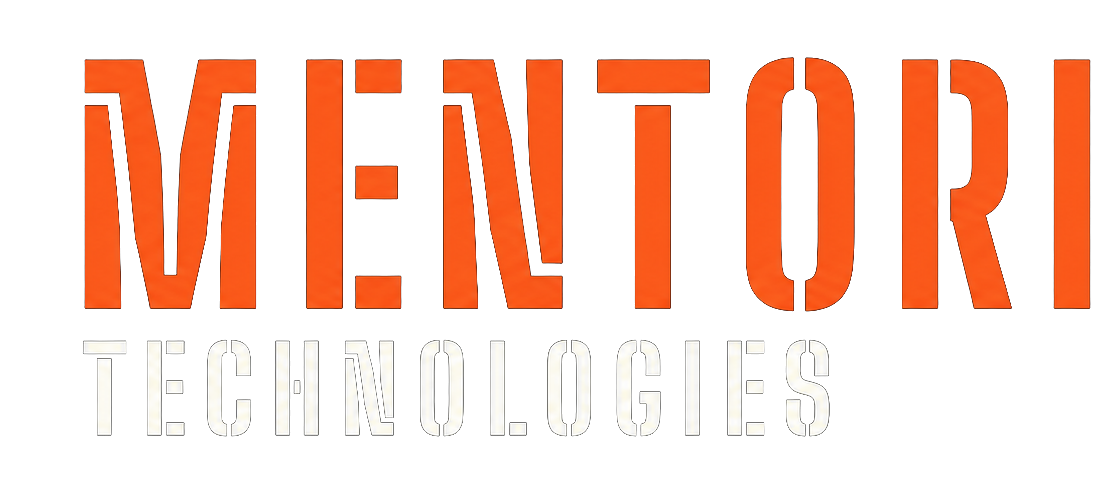
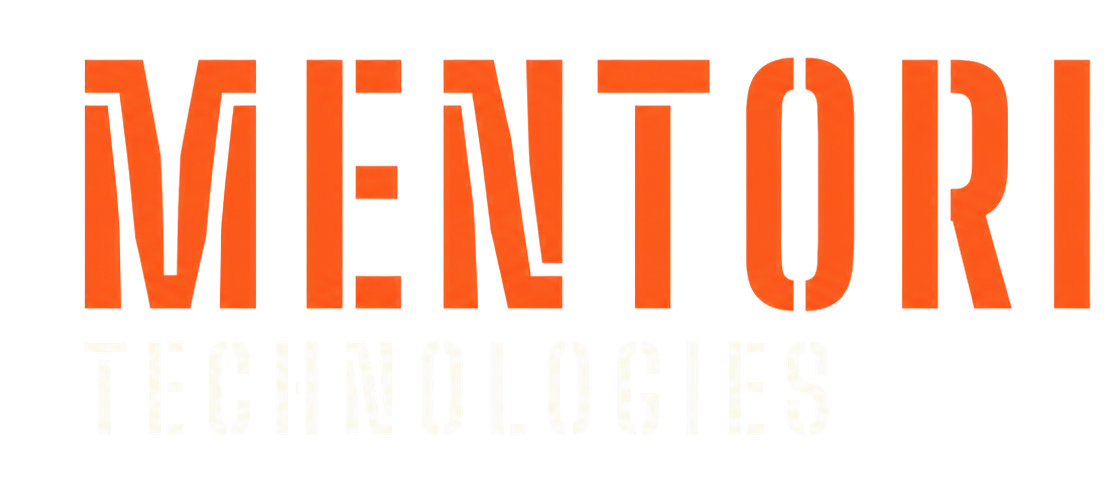
Make wordmark background transparent

diff --git a/index.html b/index.html
@@ -26,14 +26,14 @@
   <link rel="preconnect" href="https://fonts.gstatic.com" crossorigin />
   <link href="https://fonts.googleapis.com/css2?family=Fraunces:opsz,wght@9..144,300;9..144,400;9..144,500;9..144,600&family=Geist:wght@300;400;500;600;700&family=Geist+Mono:wght@400;500&display=swap" rel="stylesheet" />
 
-  <link rel="stylesheet" href="styles.css?v=50" />
+  <link rel="stylesheet" href="styles.css?v=51" />
 </head>
 <body>
   <div class="grain" aria-hidden="true"></div>
   <div class="cursor-glow" aria-hidden="true"></div>
 
   <div class="mobile-boot" id="mobileBoot" aria-hidden="true">
-    <img class="mobile-boot__wordmark" src="assets/mentori-technologies-wordmark.png" alt="" width="1120" height="500" aria-hidden="true" />
+    <img class="mobile-boot__wordmark" src="assets/mentori-technologies-wordmark-transparent.png" alt="" width="1120" height="500" aria-hidden="true" />
     <div class="mobile-boot__status"><i></i><span>запускаем систему</span></div>
     <div class="mobile-boot__bar"><i></i></div>
   </div>
@@ -42,7 +42,7 @@
   <header class="nav">
     <div class="nav__inner">
       <a href="index.html" class="nav__brand" aria-label="MENTORI TECHNOLOGIES">
-        <img class="nav__wordmark" src="assets/mentori-technologies-wordmark.png" alt="" width="1120" height="500" />
+        <img class="nav__wordmark" src="assets/mentori-technologies-wordmark-transparent.png" alt="" width="1120" height="500" />
       </a>
       <nav class="nav__links" aria-label="Главная навигация">
         <a href="services.html">Что делаем</a>
@@ -699,7 +699,7 @@
     <div class="foot__inner">
       <div class="foot__brand">
         <div>
-          <img class="foot__wordmark" src="assets/mentori-technologies-wordmark.png" alt="MENTORI TECHNOLOGIES" width="1120" height="500" loading="lazy" />
+          <img class="foot__wordmark" src="assets/mentori-technologies-wordmark-transparent.png" alt="MENTORI TECHNOLOGIES" width="1120" height="500" loading="lazy" />
           <div class="foot__tag">системы и&nbsp;автоматизация для&nbsp;бизнеса</div>
         </div>
       </div>

diff --git a/services.html b/services.html
@@ -25,7 +25,7 @@
   <link rel="preconnect" href="https://fonts.gstatic.com" crossorigin />
   <link href="https://fonts.googleapis.com/css2?family=Fraunces:opsz,wght@9..144,300;9..144,400;9..144,500;9..144,600&family=Geist:wght@300;400;500;600;700&family=Geist+Mono:wght@400;500&display=swap" rel="stylesheet" />
 
-  <link rel="stylesheet" href="styles.css?v=50" />
+  <link rel="stylesheet" href="styles.css?v=51" />
 </head>
 <body>
   <div class="grain" aria-hidden="true"></div>
@@ -35,7 +35,7 @@
   <header class="nav">
     <div class="nav__inner">
       <a href="index.html" class="nav__brand" aria-label="MENTORI TECHNOLOGIES">
-        <img class="nav__wordmark" src="assets/mentori-technologies-wordmark.png" alt="" width="1120" height="500" />
+        <img class="nav__wordmark" src="assets/mentori-technologies-wordmark-transparent.png" alt="" width="1120" height="500" />
       </a>
       <nav class="nav__links" aria-label="Главная навигация">
         <a href="services.html" class="is-active">Что делаем</a>
@@ -382,7 +382,7 @@
 
   <footer class="foot">
     <div class="foot__inner">
-      <div class="foot__brand"><div><img class="foot__wordmark" src="assets/mentori-technologies-wordmark.png" alt="MENTORI TECHNOLOGIES" width="1120" height="500" loading="lazy" /><div class="foot__tag">системы и&nbsp;автоматизация для&nbsp;бизнеса</div></div></div>
+      <div class="foot__brand"><div><img class="foot__wordmark" src="assets/mentori-technologies-wordmark-transparent.png" alt="MENTORI TECHNOLOGIES" width="1120" height="500" loading="lazy" /><div class="foot__tag">системы и&nbsp;автоматизация для&nbsp;бизнеса</div></div></div>
       <div class="foot__cols">
         <div><div class="foot__h">Контакты</div><a href="mailto:mentraos@mail.ru">mentraos@mail.ru</a><a href="tel:+79114378585">+7 911 437-85-85</a><a href="https://t.me/Mento_ri">@Mento_ri</a></div>
         <div><div class="foot__h">Разделы</div><a href="services.html">Что делаем</a><a href="about.html">О нас</a><a href="contact.html">Контакты</a></div>

diff --git a/offer.html b/offer.html
@@ -7,10 +7,10 @@
   <link rel="preconnect" href="https://fonts.googleapis.com" />
   <link rel="preconnect" href="https://fonts.gstatic.com" crossorigin />
   <link href="https://fonts.googleapis.com/css2?family=Fraunces:wght@300;400;500&family=Geist:wght@300;400;500;600&display=swap" rel="stylesheet" />
-  <link rel="stylesheet" href="styles.css?v=50" />
+  <link rel="stylesheet" href="styles.css?v=51" />
 </head>
 <body>
-  <header class="nav"><div class="nav__inner"><a class="nav__logo" href="index.html" aria-label="MENTORI TECHNOLOGIES"><img class="nav__wordmark" src="assets/mentori-technologies-wordmark.png" alt="" width="1120" height="500" /></a><a class="btn btn--ghost" href="index.html">Вернуться на сайт</a></div></header>
+  <header class="nav"><div class="nav__inner"><a class="nav__logo" href="index.html" aria-label="MENTORI TECHNOLOGIES"><img class="nav__wordmark" src="assets/mentori-technologies-wordmark-transparent.png" alt="" width="1120" height="500" /></a><a class="btn btn--ghost" href="index.html">Вернуться на сайт</a></div></header>
   <main class="legal-page"><article class="legal-page__inner">
     <h1>Условия оказания услуг</h1>
     <p>Эта страница содержит общие условия работы MENTORI TECHNOLOGIES. Конкретный состав системы, автоматизаций и интеграций, сроки, стоимость, порядок оплаты и результат фиксируются в индивидуальном предложении или договоре с клиентом.</p>

diff --git a/about.html b/about.html
@@ -25,7 +25,7 @@
   <link rel="preconnect" href="https://fonts.gstatic.com" crossorigin />
   <link href="https://fonts.googleapis.com/css2?family=Fraunces:opsz,wght@9..144,300;9..144,400;9..144,500;9..144,600&family=Geist:wght@300;400;500;600;700&family=Geist+Mono:wght@400;500&display=swap" rel="stylesheet" />
 
-  <link rel="stylesheet" href="styles.css?v=50" />
+  <link rel="stylesheet" href="styles.css?v=51" />
 </head>
 <body>
   <div class="grain" aria-hidden="true"></div>
@@ -34,7 +34,7 @@
   <header class="nav">
     <div class="nav__inner">
       <a href="index.html" class="nav__brand" aria-label="MENTORI TECHNOLOGIES">
-        <img class="nav__wordmark" src="assets/mentori-technologies-wordmark.png" alt="" width="1120" height="500" />
+        <img class="nav__wordmark" src="assets/mentori-technologies-wordmark-transparent.png" alt="" width="1120" height="500" />
       </a>
       <nav class="nav__links" aria-label="Главная навигация">
         <a href="services.html">Что делаем</a>
@@ -211,7 +211,7 @@
     <div class="foot__inner">
       <div class="foot__brand">
         <div>
-          <img class="foot__wordmark" src="assets/mentori-technologies-wordmark.png" alt="MENTORI TECHNOLOGIES" width="1120" height="500" loading="lazy" />
+          <img class="foot__wordmark" src="assets/mentori-technologies-wordmark-transparent.png" alt="MENTORI TECHNOLOGIES" width="1120" height="500" loading="lazy" />
           <div class="foot__tag">системы и&nbsp;автоматизация для&nbsp;бизнеса</div>
         </div>
       </div>

diff --git a/contact.html b/contact.html
@@ -25,7 +25,7 @@
   <link rel="preconnect" href="https://fonts.gstatic.com" crossorigin />
   <link href="https://fonts.googleapis.com/css2?family=Fraunces:opsz,wght@9..144,300;9..144,400;9..144,500;9..144,600&family=Geist:wght@300;400;500;600;700&family=Geist+Mono:wght@400;500&display=swap" rel="stylesheet" />
 
-  <link rel="stylesheet" href="styles.css?v=50" />
+  <link rel="stylesheet" href="styles.css?v=51" />
 </head>
 <body>
   <div class="grain" aria-hidden="true"></div>
@@ -34,7 +34,7 @@
   <header class="nav">
     <div class="nav__inner">
       <a href="index.html" class="nav__brand" aria-label="MENTORI TECHNOLOGIES">
-        <img class="nav__wordmark" src="assets/mentori-technologies-wordmark.png" alt="" width="1120" height="500" />
+        <img class="nav__wordmark" src="assets/mentori-technologies-wordmark-transparent.png" alt="" width="1120" height="500" />
       </a>
       <nav class="nav__links" aria-label="Главная навигация">
         <a href="services.html">Что делаем</a>
@@ -171,7 +171,7 @@
     <div class="foot__inner">
       <div class="foot__brand">
         <div>
-          <img class="foot__wordmark" src="assets/mentori-technologies-wordmark.png" alt="MENTORI TECHNOLOGIES" width="1120" height="500" loading="lazy" />
+          <img class="foot__wordmark" src="assets/mentori-technologies-wordmark-transparent.png" alt="MENTORI TECHNOLOGIES" width="1120" height="500" loading="lazy" />
           <div class="foot__tag">системы и&nbsp;автоматизация для&nbsp;бизнеса</div>
         </div>
       </div>

diff --git a/privacy.html b/privacy.html
@@ -8,10 +8,10 @@
   <link rel="preconnect" href="https://fonts.googleapis.com" />
   <link rel="preconnect" href="https://fonts.gstatic.com" crossorigin />
   <link href="https://fonts.googleapis.com/css2?family=Fraunces:wght@300;400;500&family=Geist:wght@300;400;500;600&display=swap" rel="stylesheet" />
-  <link rel="stylesheet" href="styles.css?v=50" />
+  <link rel="stylesheet" href="styles.css?v=51" />
 </head>
 <body>
-  <header class="nav"><div class="nav__inner"><a class="nav__logo" href="index.html" aria-label="MENTORI TECHNOLOGIES"><img class="nav__wordmark" src="assets/mentori-technologies-wordmark.png" alt="" width="1120" height="500" /></a><a class="btn btn--ghost" href="index.html">Вернуться на сайт</a></div></header>
+  <header class="nav"><div class="nav__inner"><a class="nav__logo" href="index.html" aria-label="MENTORI TECHNOLOGIES"><img class="nav__wordmark" src="assets/mentori-technologies-wordmark-transparent.png" alt="" width="1120" height="500" /></a><a class="btn btn--ghost" href="index.html">Вернуться на сайт</a></div></header>
   <main class="legal-page"><article class="legal-page__inner">
     <h1>Политика конфиденциальности</h1>
     <p>Настоящая политика описывает, как MENTORI TECHNOLOGIES обрабатывает сведения, которые посетители передают через формы и при обращении по контактам на сайте.</p>

diff --git a/styles.css b/styles.css
@@ -171,7 +171,6 @@ body:hover .cursor-glow { opacity: 1; }
   flex-shrink: 0;
   border-radius: 2px;
   overflow: hidden;
-  background: #050607;
 }
 .nav__logo {
   display: inline-flex;
@@ -179,7 +178,6 @@ body:hover .cursor-glow { opacity: 1; }
   flex-shrink: 0;
   border-radius: 2px;
   overflow: hidden;
-  background: #050607;
 }
 .nav__wordmark,
 .foot__wordmark,
@@ -4524,8 +4522,6 @@ body.menu-open { overflow: hidden; }
 }
 .foot__wordmark {
   width: min(196px, 58vw);
-  border-radius: 3px;
-  background: #050607;
 }
 .foot__tag {
   margin-top: 10px;
@@ -6352,9 +6348,6 @@ body.menu-open { overflow: hidden; }
   }
   .mobile-boot__wordmark {
     width: min(330px, 78vw);
-    border-radius: 4px;
-    background: #050607;
-    box-shadow: 0 24px 80px rgba(0, 0, 0, .16);
   }
   .mobile-boot__status {
     margin-top: 22px;
@@ -8170,6 +8163,12 @@ body.menu-open { overflow: hidden; }
     background: linear-gradient(180deg, transparent, rgba(20, 18, 14, 0.04));
     border-top: 1px solid rgba(20, 18, 14, 0.08);
   }
+
+[data-theme="light"] .nav__wordmark,
+[data-theme="light"] .foot__wordmark,
+[data-theme="light"] .mobile-boot__wordmark {
+  content: url("assets/mentori-technologies-wordmark-transparent-light.png");
+}
 
 [data-theme="light"] .foot__tag,
   [data-theme="light"] .foot__col-h,

diff --git a/README.md b/README.md
@@ -33,7 +33,7 @@ python3 -m http.server 4321
 | `contact.html` | Контакты |
 
 Общие ресурсы: `styles.css` (один файл на все страницы), `main.js` (вся логика), `assets/` (фото и графика сайта).
-Фирменный знак в шапке, загрузочном экране и подвале: `assets/mentori-technologies-wordmark.png`.
+Фирменный знак в шапке, загрузочном экране и подвале: прозрачные версии `assets/mentori-technologies-wordmark-transparent.png` и `assets/mentori-technologies-wordmark-transparent-light.png`. Исходник с чёрным фоном сохранён как `assets/mentori-technologies-wordmark.png`.
 
 ---
 
@@ -67,12 +67,12 @@ python3 -m http.server 4321
 
 Подключения в HTML версионированы: `styles.css?v=N` и `main.js?v=N`.
 **При каждом изменении `styles.css` или `main.js` поднимай номер версии во всех HTML** —
-тогда браузеры подтянут свежие файлы без жёсткой перезагрузки (Cmd+Shift+R). Текущие версии: стили **v=50**, скрипт **v=37**.
+тогда браузеры подтянут свежие файлы без жёсткой перезагрузки (Cmd+Shift+R). Текущие версии: стили **v=51**, скрипт **v=37**.
 
 Быстрый бамп по всем страницам:
 ```bash
 cd /Users/mentori/mentra-site
-OLD=50; NEW=51
+OLD=51; NEW=52
 sed -i '' "s/styles.css?v=$OLD/styles.css?v=$NEW/; s/main.js?v=$OLD/main.js?v=$NEW/" *.html
 ```
 
